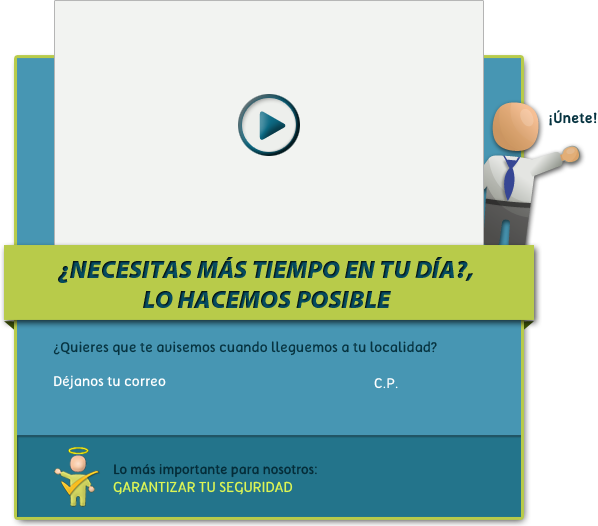
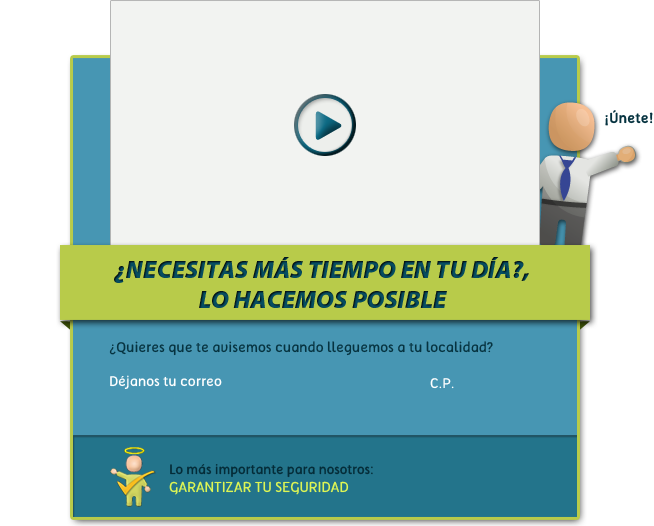
CV, done v2

diff --git a/web/css/main2.css b/web/css/main2.css
@@ -63,12 +63,12 @@ body.goninis div.icon {
 body.goninis div.icon.facebook {
   background:url(/images/landing/sprites.png) no-repeat 0px -72px;
   top:-340px;
-  left:145px;
+  left:172px;
 }
 body.goninis div.icon.twitter {
   background:url(/images/landing/sprites.png) no-repeat -41px -72px;
   top:-340px;
-  left:565px;
+  left:593px;
 }
 body.goninis div.icon.linkedin {
   background:url(/images/landing/sprites.png) no-repeat -81px -72px;
@@ -80,7 +80,7 @@ body.goninis div.optin.popup {
   position:relative;
   top:200px;
   background:url(/images/menu_landingpage.png) no-repeat 0px 0px;
-  width:598px;
+  width:654px;
   height:526px;
   margin:0px auto;
 }
@@ -95,27 +95,27 @@ body.goninis form input[type='text']{
 body.goninis form input[type='text']#email{
   position:relative;
   width:270px;
-  top:-60px;
-  left:-60px;
+  top:-300px;
+  left:0px;
 }
 body.goninis form input[type='text']#zipcode{
   position:relative;
   width:110px;
   margin-left:40px;
-  top:-60px;
-  left:-60px;
+  top:-300px;
+  left:0px;
 }
 body.goninis form input[type='image']{
   position:absolute;
-  top:-10px;
-  left:260px;
+  top:-250px;
+  left:318px;
 }
 body.goninis div.optin.popup div.feedback {
   position:relative;
   width:450px;
   height:71px;
   top:340px;
-  left:42px;
+  left:98px;
 }
 body.goninis div.optin.popup div.feedback.ok {
   background:url(/images/landing/feedback_ok.png) no-repeat 0px 0px;
@@ -127,4 +127,9 @@ body.goninis div.optin.popup div.feedback.error {
 body.goninis div.footer {
   background:url(/images/textura_footer.jpg) repeat-x 0px 0px;
   height:96px;
+}
+body.goninis .video_wrapper {
+  position:relative;
+  top:5px;
+  left:111px;
 }

diff --git a/apps/landing/modules/optin/templates/showSuccess.php b/apps/landing/modules/optin/templates/showSuccess.php
@@ -1,5 +1,8 @@
 <div class="logo">&nbsp;</div>
 <div class="optin popup">
+  <div class="video_wrapper">
+    <iframe width="425" height="240" src="http://www.youtube.com/embed/R7tFG8a9vyk" frameborder="0" allowfullscreen></iframe>
+  </div>
   <form action="/landing_dev.php/optin/register" method="post">
     <?php echo input_tag('email')?>
     <?php echo input_tag('zipcode')?>
